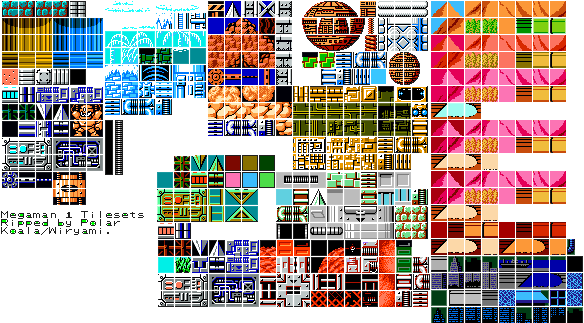
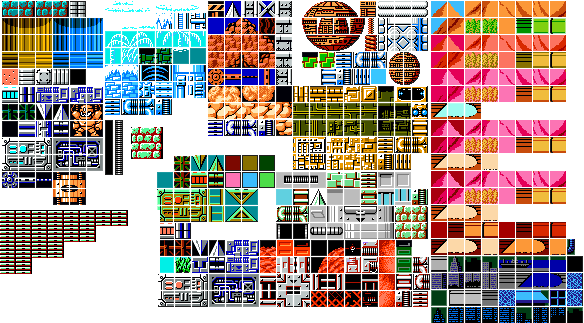
update resource, add rock

diff --git a/Rockman/Rock.cpp b/Rockman/Rock.cpp
@@ -1,0 +1,51 @@
+#include "Rock.h"
+
+#include "Define.h"
+#include "ResourceManager.h"
+
+#define  NUMB_SPRITE 4
+
+CRock::CRock(int _id, D3DXVECTOR3 _pos, bool _isCheckCollison)
+{
+	m_Id = _id;
+	m_Type = BLOCK;
+	m_Sprite = new CSprite(CResourceManager::GetInstance()->GetSprite(IMAGE_TILES), D3DXVECTOR2(140,35), 4, 1, D3DXVECTOR2(3,1), D3DXVECTOR2(1,1), D3DXVECTOR2(1,1));
+	m_pos = _pos;
+	m_pos.z = DEPTH_BLOCK;
+
+	m_Size = D3DXVECTOR2(m_Sprite->GetWidthRectSprite(), m_Sprite->GetHeightRectSprite());
+	m_Size = D3DXVECTOR2(m_Sprite->GetWidthRectSprite() * NUMB_SPRITE, m_Sprite->GetHeightRectSprite());
+	UpdateRect();
+}
+
+CRock::CRock(int objID, int typeID, double posX, double posY, int width, int height, double posXCollide, double posYCollide, int widthCollide, int heightCollide)
+{
+	m_Id = objID;
+	m_Type = BLOCK;
+	m_Size = D3DXVECTOR2(widthCollide, heightCollide);
+	m_pos = D3DXVECTOR3(posXCollide, posYCollide, 0);
+
+	UpdateRect();
+}
+
+
+CRock::~CRock(void)
+{
+}
+
+void CRock::Update(float _deltaTime, CCamera *_camera, CInput *_input)
+{
+	//m_Sprite->IndexOf(0);
+}
+
+void CRock::Render(LPD3DXSPRITE _sp, CCamera* _camera)
+{
+	//CEntity::Render(_sp, _camera);
+	/*D3DXVECTOR3 pos = m_pos;
+	for (int i = 0; i < NUMB_SPRITE; i++)
+	{
+		m_Sprite->IndexOf(i);
+		pos.x = m_pos.x + i * m_Sprite->GetWidthRectSprite();
+		CEntity::RenderEachSprite(_sp, _camera,m_Sprite, pos);
+	}*/
+}

diff --git a/Rockman/ScrewBomber.cpp b/Rockman/ScrewBomber.cpp
@@ -70,15 +70,19 @@ CScrewBomber::CScrewBomber(int objID, int typeID, double posX, double posY, int 
 {
 	m_Id = objID;
 	m_Type = SCREW_BOMBER;
-	int k = _isUp ? 73 : 0;
+	int k = _isUp ? 39 : 0;
 	m_Sprite = new CSprite(CResourceManager::GetInstance()->GetSprite(IMAGE_ENEMIES),
 		D3DXVECTOR2(175, 106 + k), 4, 1,
-		D3DXVECTOR2(10, 90 + k),
+		D3DXVECTOR2(15, 90 + k),
 		D3DXVECTOR2(0,0),
 		D3DXVECTOR2(20, 0));
 	m_Size = D3DXVECTOR2(widthCollide, heightCollide);
 	m_pos = D3DXVECTOR3(posXCollide, posYCollide, 0);
 	m_IsLife = true;
+
+	/**Attribute ScrewBomber**/
+	m_Status = Wait;
+	m_TimeSpend = 0;
 
 	UpdateRect();
 
@@ -210,5 +214,14 @@ void CScrewBomber::SetInjured(CEntity* _other)
 		m_IsCheckCollision = false;
 		m_Item->SetActive(true);
 		m_IsLife = false;
+	}
+}
+
+void CScrewBomber::Reset()
+{
+	CEnemy::Reset();
+	for (int i = 0; i < NUM_BULLET; i++)
+	{
+		m_ListBullet[i]->SetActive(false);
 	}
 }

diff --git a/Rockman/ScrewBomber.h b/Rockman/ScrewBomber.h
@@ -1,6 +1,6 @@
 #ifndef  _SCREW_BOMBER_H
 #define  _SCREW_BOMBER_H
-#include "Entity.h"
+#include "Enemy.h"
 #include "Bullet.h"
 #include "Item.h"
 
@@ -11,16 +11,16 @@ enum ScrewBomberStatus {
 	Rotate
 };
 
-class CScrewBomber : public CEntity
+class CScrewBomber : public CEnemy
 {
 private:
 	ScrewBomberStatus m_Status;
 	CBullet *m_ListBullet[NUM_BULLET];
 	CItem *m_Item;
 	float  m_TimeSpend;
-	bool m_IsLife;
-
 	void Shot(int _n);
+protected:
+	virtual void Reset();
 public:
 	CScrewBomber(int objID, int typeID, double posX, double posY, int width, int height, double posXCollide, double posYCollide, int widthCollide, int heightCollide, bool _isUp = true);
 

diff --git a/Rockman/Rock.h b/Rockman/Rock.h
@@ -1,0 +1,19 @@
+#ifndef _ROCK_H_
+#define _ROCK_H_
+#include "Entity.h"
+class CRock : public CEntity
+{
+private:
+protected:
+
+public:
+	CRock(int _id, D3DXVECTOR3 _pos, bool _isCheckCollison = true);
+	CRock(int objID, int typeID, double posX, double posY, int width, int height, double posXCollide, double posYCollide, int widthCollide, int heightCollide);
+	~CRock(void);
+
+	//method
+	virtual void Update(float , CCamera *, CInput *);
+	void Render(LPD3DXSPRITE _sp, CCamera* _camera);
+};
+
+#endif
